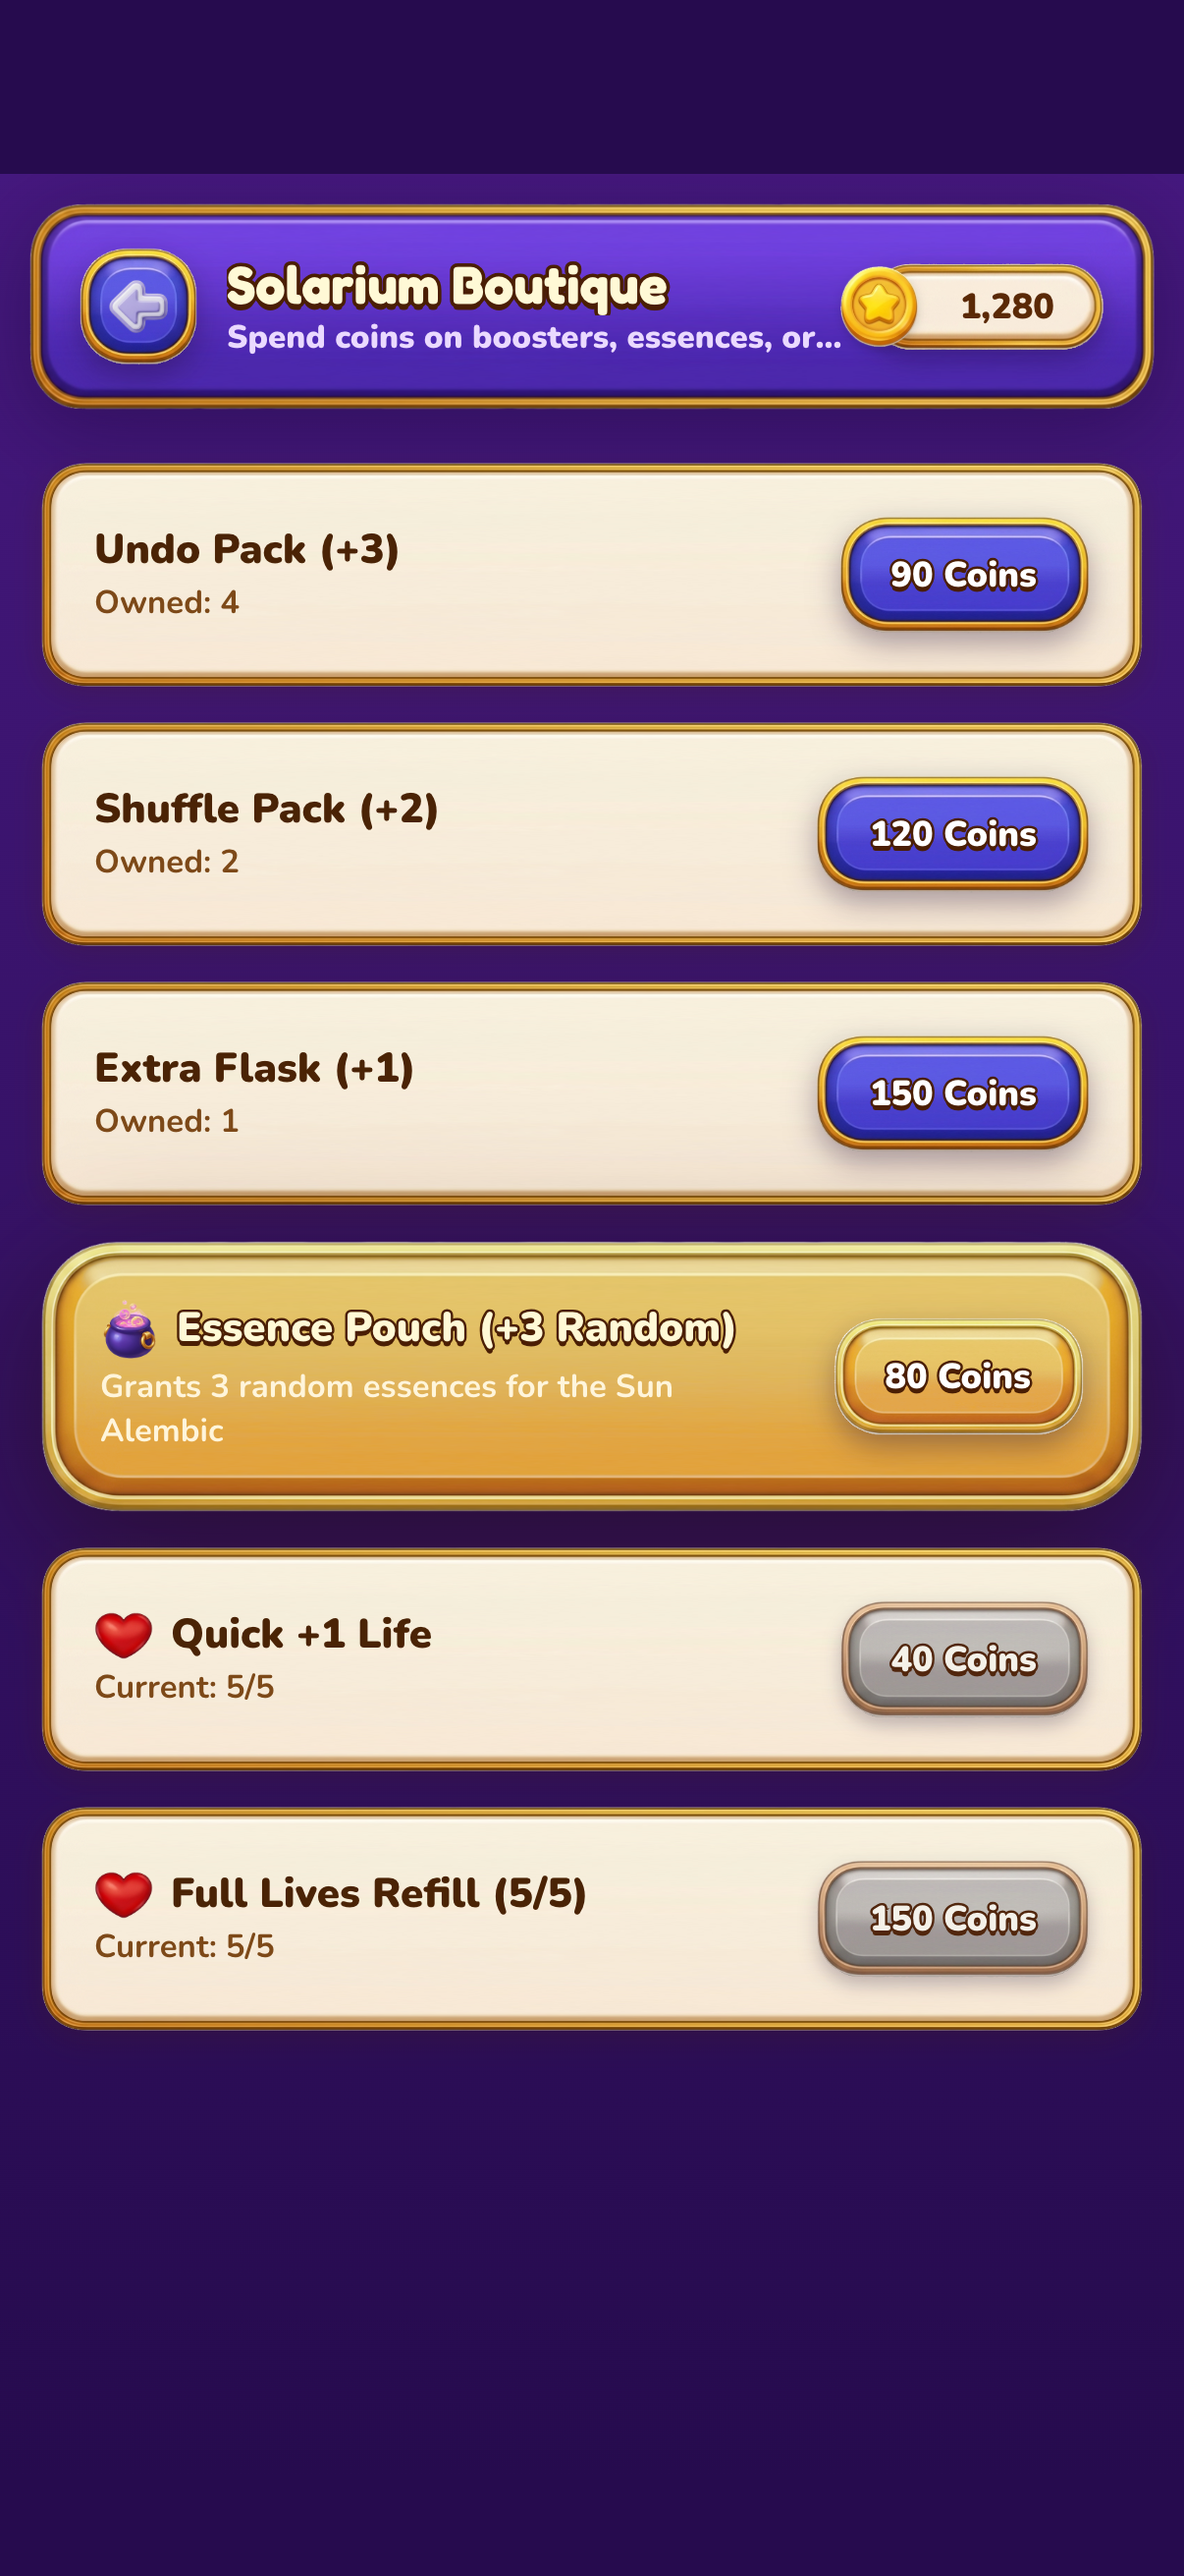
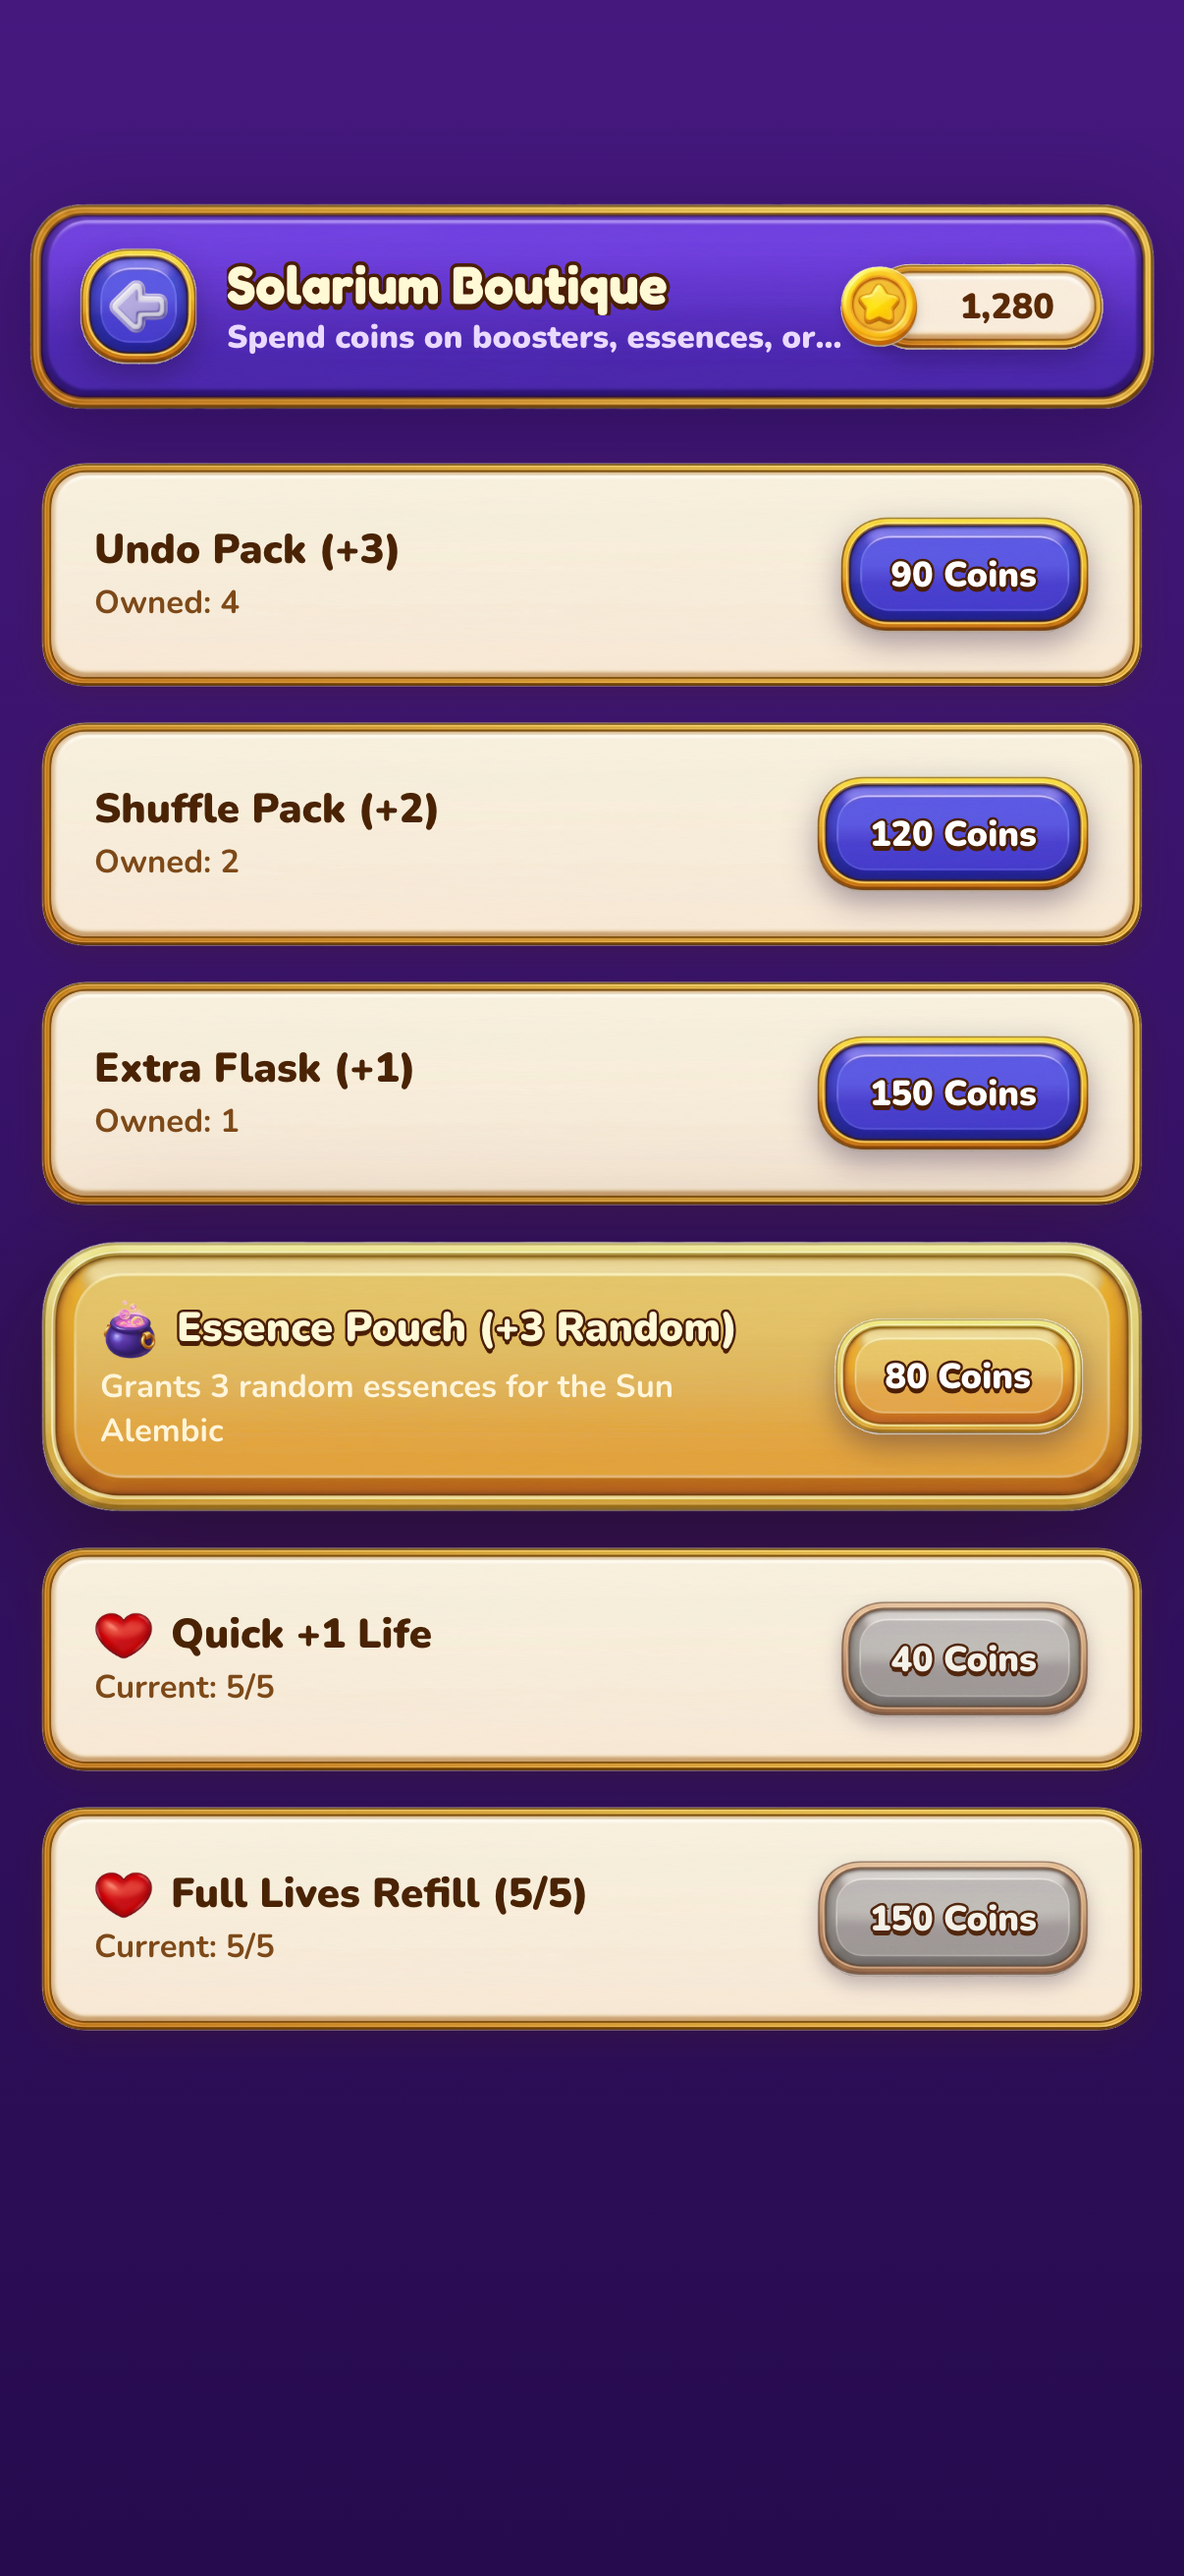
chore(release): build 号升至 3，随包发布安全区满幅修复并同步 6 张商店截图

Changed region(s): [[0.0, 0.0, 1.0, 0.0927]]

diff --git a/_marketing_assets/copywriting/04_AppStoreConnect-填表清单.md b/_marketing_assets/copywriting/04_AppStoreConnect-填表清单.md
@@ -29,7 +29,9 @@ App 截屏：2556×1179、1179×2556、2622×1206、1206×2622
   06-成就画卷.png   ← 可选第 6 张，画面最丰满，建议保留
 ```
 
-> 渲染时已按真机 `env(safe-area-inset-top)=59pt` / `bottom=34pt` 预留灵动岛与 Home 条空白，截图与真机显示一致（`App.tsx` 根容器 `pt-[env(safe-area-inset-top)] pb-[env(safe-area-inset-bottom)]`）。若不预留，截图顶部会比真机高约 59pt。
+> **安全区处理（build 3 起）**：`pt/pb-[env(safe-area-inset-*)]` 已从 `App.tsx` 的 `main` 下移到各屏幕根节点（`TitleHomeScreen` / `GameplayScreen` / `SubViewShell`），背景因此铺满到屏幕边缘，只让内容内缩。build 2 及更早版本在顶部有一条 59pt 的纯 `#260B4E` 色带，build 3 已消除。
+>
+> 截图按 `safe-area-inset-top=59pt` / `bottom=34pt` 渲染，但没有绘制系统状态栏（时间/信号/电量）——真机上那 59pt 里是有内容的，所以不会显得空。App Store 不要求截图包含状态栏。
 >
 > 最少 3 张、最多 10 张即可提交，5~6 张是常见配置。
 
